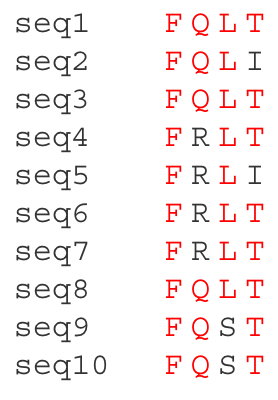
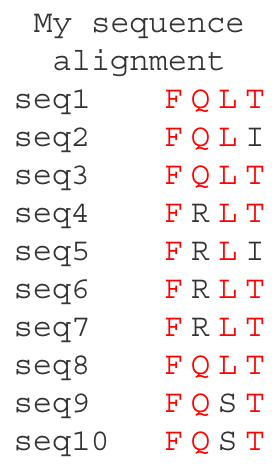
gt tables

Changed region(s): [[0.0576, 0.03, 0.9496, 0.96], [0.3165, 0.87, 0.4029, 0.96]]

diff --git a/Rscripts/table_display_gt_demo.md b/Rscripts/table_display_gt_demo.md
@@ -88,7 +88,7 @@ Use gt to format that nicely:
 ``` r
 seq_slice_gt <- seq_slice_tbl %>% 
     ## gt alone makes a decent-looking table
-    gt() %>% 
+    gt(caption="My sequence alignment") %>% 
     ## a bunch of formatting things:
     cols_align(align = "center", columns=-id) %>% 
     opt_table_font(font = list(google_font(name = "Courier"))) %>% 
